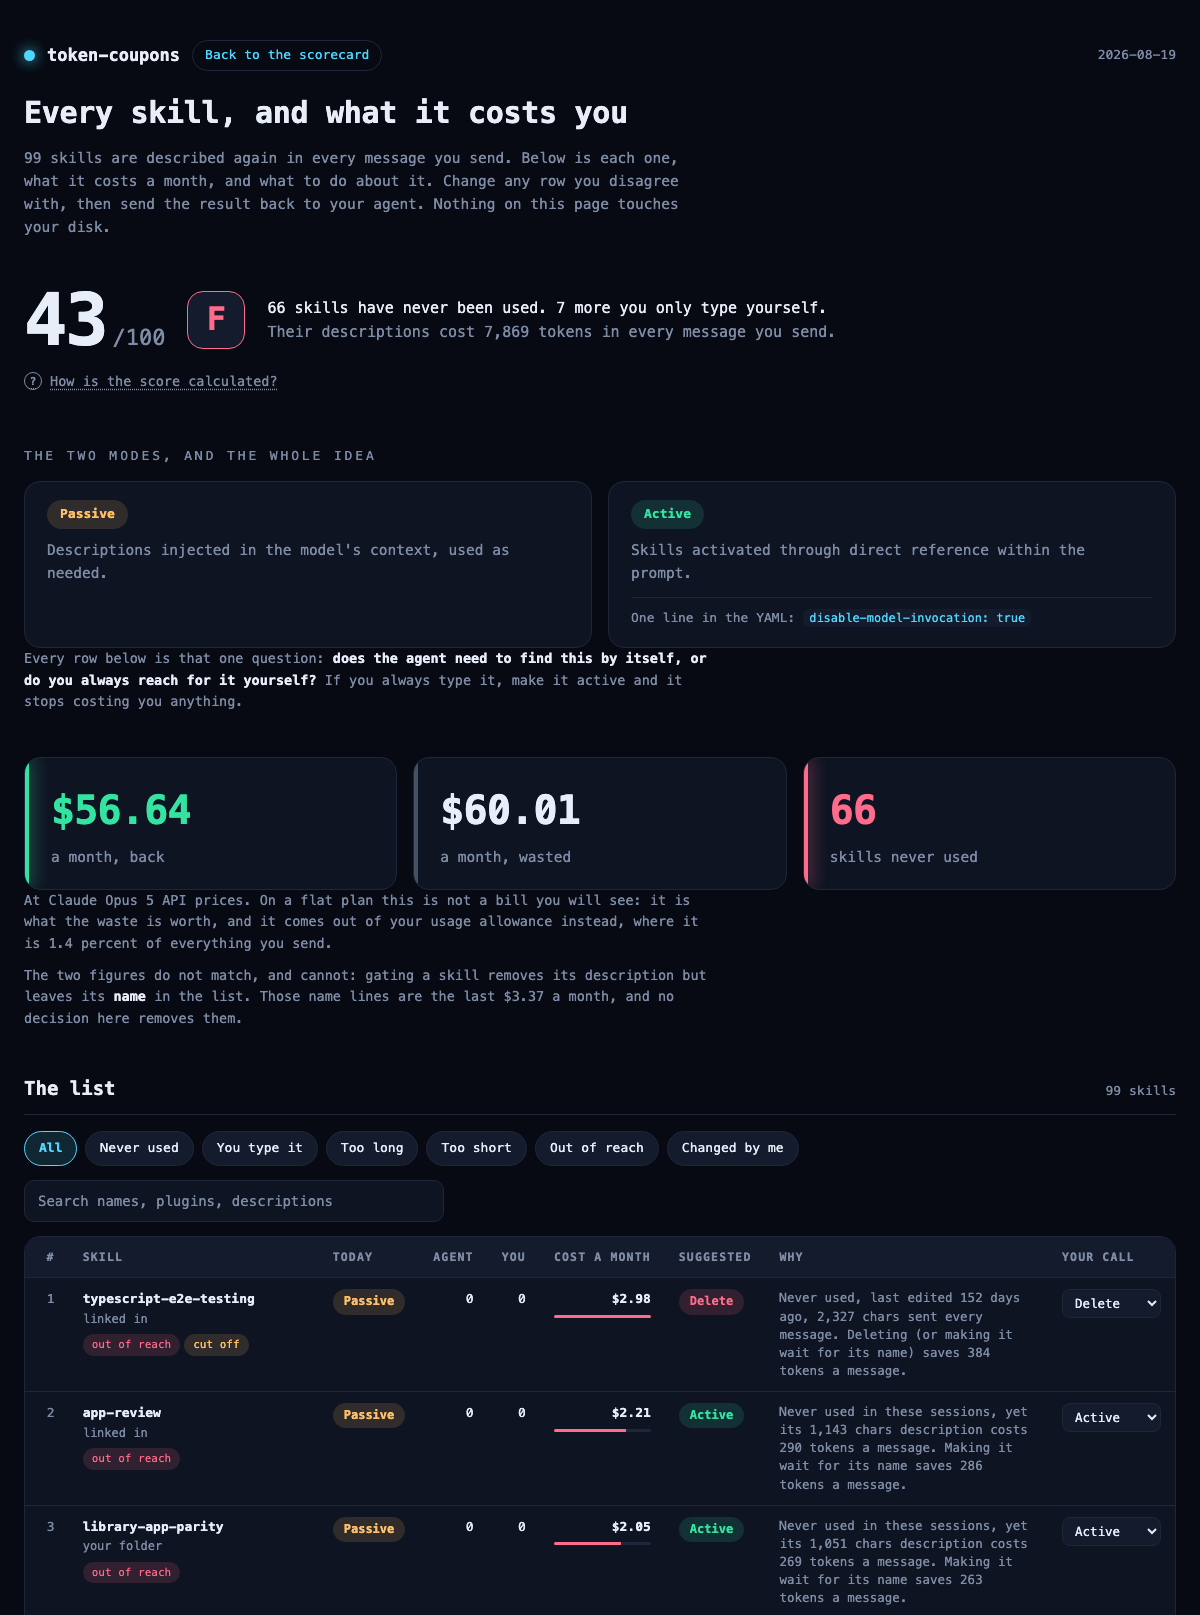
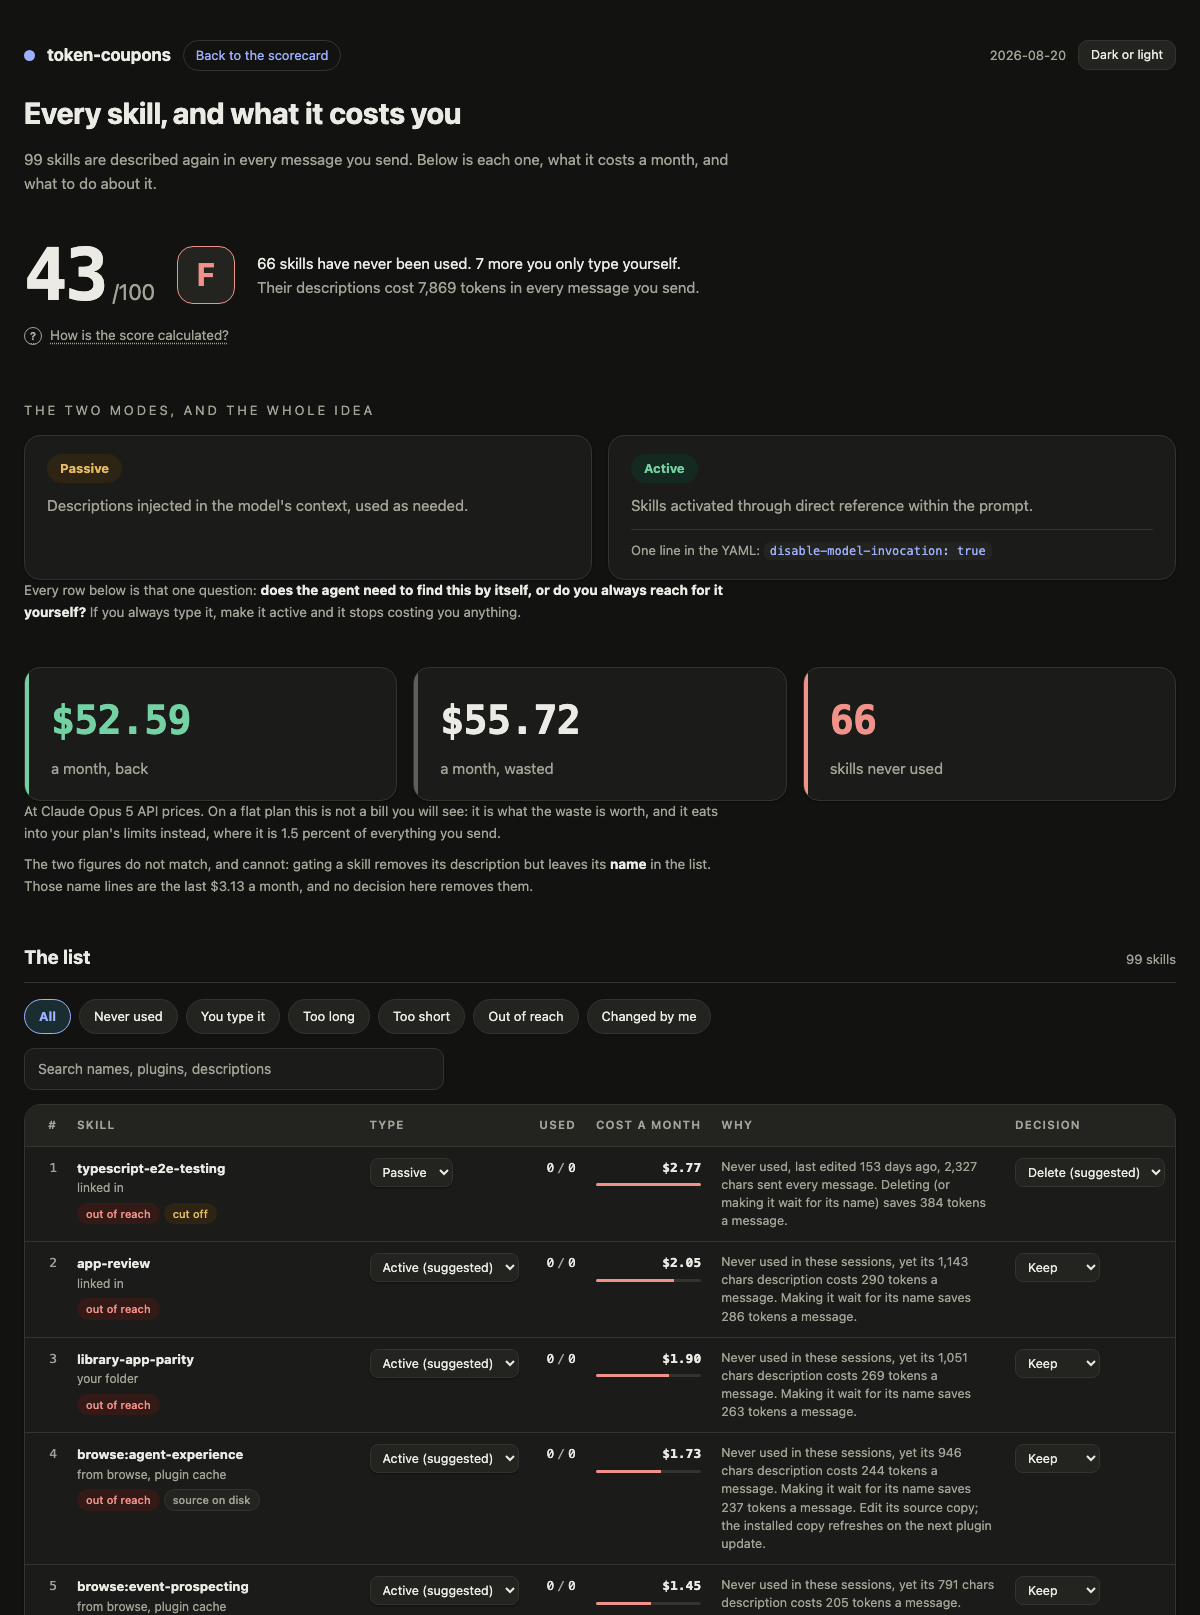
Redraw both shots against the code and the run they claim
The decision page moved twice since its screenshot: its own palette
back, and the decision split into two questions. The scorecard and the
pasted output disagreed with each other too, having been captured from
three different runs.

Both images and the proof block now come from one run, the 2026-08-20
report: $52.59 a month back, $55.72 wasted, 46 to gate, 18 to keep.

diff --git a/README.md b/README.md
@@ -11,7 +11,7 @@
 </p>
 
 <p align="center">
-  <img src="./assets/readme/scorecard.png" width="100%" alt="The scorecard token-coupons draws from the author's report, showing what taking its recommendations is worth: $56.64 a month, 7,427 tokens off every message from 76 skills; every message before 11,485 tokens, after 4,058; 41 skills set to active, 25 unused skills removed, 10 descriptions optimized.">
+  <img src="./assets/readme/scorecard.png" width="100%" alt="The scorecard token-coupons draws from the author's report, showing what taking its recommendations is worth: $52.59 a month, 7,427 tokens off every message from 81 skills; every message before 11,485 tokens, after 4,058; 46 skills set to active, 25 unused skills removed, 10 descriptions optimized.">
 </p>
 
 ## What it tells you
@@ -35,18 +35,18 @@ WHAT THE LISTING COSTS
 
 WHAT IT COSTS IN DOLLARS
     model                     wasted/week  wasted/month  uncached/week  whole list/month
-  * Claude Fable 5                 $26.81       $116.19        $173.18           $169.58
-  * Claude Opus 5                  $13.41        $58.09         $86.59            $84.79
-  * Claude Sonnet 5                 $5.36        $23.24         $34.64            $33.92
+  * Claude Fable 5                 $25.72       $111.43        $166.78           $162.64
+  * Claude Opus 5                  $12.86        $55.72         $83.39            $81.32
+  * Claude Sonnet 5                 $5.14        $22.29         $33.36            $32.53
   * seen in your own sessions
-  Assumes 131 messages per chat and 16.8 chats per week, measured from your sessions.
+  Assumes 135 messages per chat and 15.7 chats per week, measured from your sessions.
 
 RECOMMENDED
-  41 to gate (active), 25 to delete, 10 to rewrite (optimize), 23 to keep
+  46 to gate (active), 25 to delete, 10 to rewrite (optimize), 18 to keep
 
    #  action    saves/msg  skill
    1  delete          384  typescript-e2e-testing
-       Never used, last edited 151 days ago, 2,327 chars sent every message.
+       Never used, last edited 153 days ago, 2,327 chars sent every message.
    2  active          286  app-review
        Never used in these sessions, yet its 1,143 chars description costs 290 tokens a message.
 ```
@@ -54,7 +54,7 @@ RECOMMENDED
 Then it hands you a page where every row is already set to what it recommends, you change the ones you disagree with, and it carries out your decisions.
 
 <p align="center">
-  <img src="./assets/readme/decision-page.png" width="100%" alt="The decision page: a score of 43 out of 100 with the grade F, 66 skills never used, the two modes explained, $56.64 a month back against $60.01 wasted, and the ranked list where each row shows the skill, its mode today, how often the agent and you used it, its cost a month, the suggested action, why, and a dropdown for your call.">
+  <img src="./assets/readme/decision-page.png" width="100%" alt="The decision page: a score of 43 out of 100 with the grade F, 66 skills never used, the two modes explained, $52.59 a month back against $55.72 wasted, and the ranked list where each row shows the skill, its mode today, how often the agent and you used it, its cost a month, the suggested action, why, and a dropdown for your call.">
 </p>
 
 ## Why this happens
